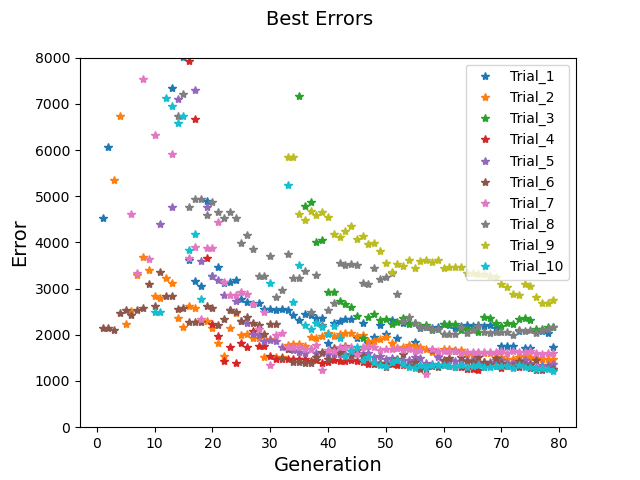
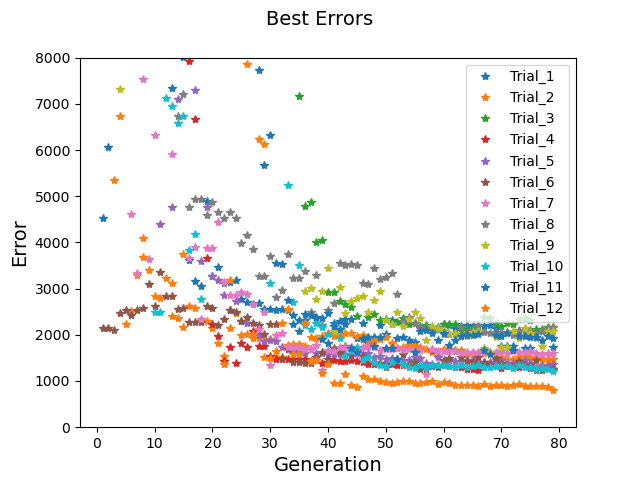
new

diff --git a/plot_GA.py b/plot_GA.py
@@ -73,6 +73,25 @@ ind_10 = ind_10.to_dict('index')
 t10, v10 = plot_GA(ind_10)
 plt.plot(t10, v10, label = 'Trial_10')
 
+ind_10 = pd.read_excel('Best_ind_10.xlsx')
+ind_10 = ind_10.to_dict('index')
+
+t10, v10 = plot_GA(ind_10)
+plt.plot(t10, v10, label = 'Trial_10')
+
+ind_11 = pd.read_excel('Best_ind_11.xlsx')
+ind_11 = ind_11.to_dict('index')
+
+t11, v11 = plot_GA(ind_11)
+plt.plot(t11, v11, label = 'Trial_11')
+
+ind_12 = pd.read_excel('Best_ind_12.xlsx')
+ind_12 = ind_12.to_dict('index')
+
+t12, v12 = plot_GA(ind_12)
+plt.plot(t12, v12, label = 'Trial_12')
+
+
 plt.legend()
 plt.ylabel('Voltage (mV)', fontsize=14)
 plt.xlabel('Time (ms)', fontsize=14)
@@ -124,6 +143,14 @@ err_10 = pd.read_excel('Errors_10.xlsx')
 best_err_10 = list(err_10['Best Error'])
 plt.plot(gen, best_err_10,'*', label = 'Trial_10')
 
+err_11 = pd.read_excel('Errors_11.xlsx')
+best_err_11 = list(err_11['Best Error'])
+plt.plot(gen, best_err_11,'*', label = 'Trial_11')
+
+err_12 = pd.read_excel('Errors_12.xlsx')
+best_err_12 = list(err_12['Best Error'])
+plt.plot(gen, best_err_12,'*', label = 'Trial_12')
+
 plt.legend()
 plt.ylabel('Error', fontsize=14)
 plt.xlabel('Generation', fontsize=14)
@@ -167,6 +194,6 @@ plt.hlines(0, -.5, (len(keys)-.5), colors='grey', linestyle='--')
 plt.xticks([i for i in range(0, len(keys))], ['GKs', 'GCaL', 'GKr', 'GNa', 'Gto', 'GK1', 'Gf','Gleak'], fontsize=10)
 plt.ylim(log10(0.1), log10(10))
 plt.ylabel('Log10 Conductance', fontsize=14)
-plt.legend()
+#plt.legend()
 plt.show()
 
